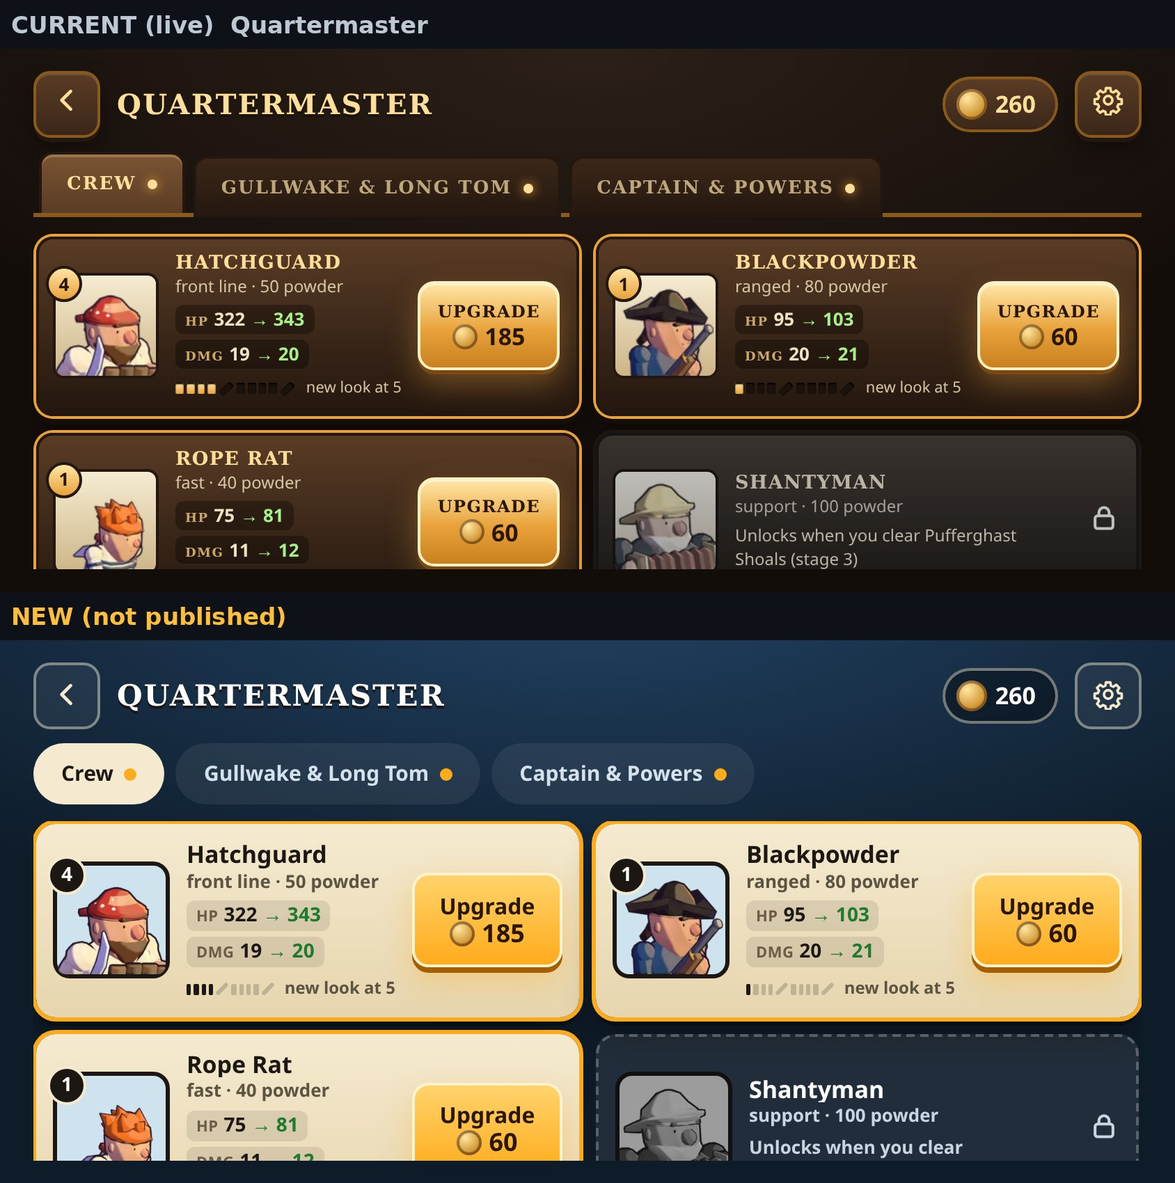
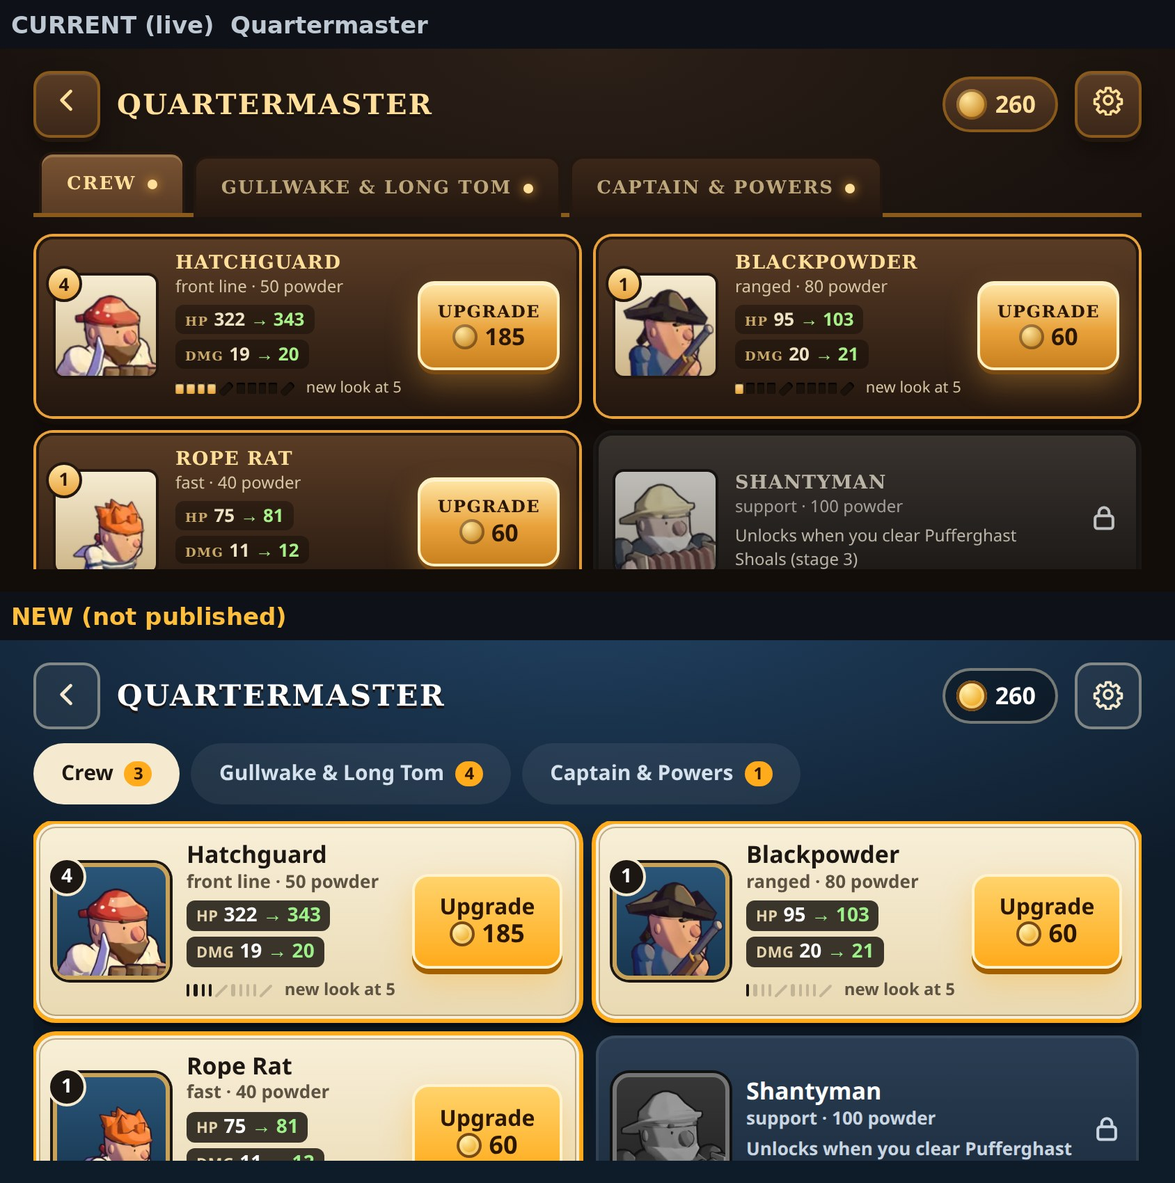
Review 5 fixes: scene lifted clear of cards, fights off the Grotto mouth, card tray, heavier outlines, expressive eyes, twist and squash

diff --git a/src/render/renderer.js b/src/render/renderer.js
@@ -30,8 +30,9 @@ export function createRenderer(canvas, hooks) {
 
   /** Screen (css px) -> world x. */
   R.toWorldX = (cssX) => (cssX * R.dpr) / R.scale + R.camX;
-  R.toWorldY = (cssY) => (cssY * R.dpr) / R.scale;
-  R.toCss = (wx, wy) => [((wx - R.camX) * R.scale) / R.dpr, (wy * R.scale) / R.dpr];
+  R.yOff = -46;       // the whole scene sits higher so feet stay clear of the card tray
+  R.toWorldY = (cssY) => (cssY * R.dpr) / R.scale - R.yOff;
+  R.toCss = (wx, wy) => [((wx - R.camX) * R.scale) / R.dpr, ((wy + R.yOff) * R.scale) / R.dpr];
   R.clampCam = (B) => { const max = Math.max(0, B.F.width - R.W); R.camX = Math.max(0, Math.min(max, R.camX)); };
 
   // ---------------------------------------------------------------- particles & numbers
@@ -206,9 +207,9 @@ export function createRenderer(canvas, hooks) {
     const c = scaledLayer(L), f = L.parallax || 0;
     const sx = Math.max(0, Math.min(c.width - 1, Math.round(camX * f * R.scale)));
     const sw = Math.min(c.width - sx, Math.ceil(R.W * R.scale));
-    g.setTransform(1, 0, 0, 1, Math.round(R.shakeX * R.scale), Math.round(R.shakeY * R.scale));
+    g.setTransform(1, 0, 0, 1, Math.round(R.shakeX * R.scale), Math.round((R.shakeY + R.yOff) * R.scale));
     g.drawImage(c, sx, 0, sw, c.height, 0, 0, sw, c.height);
-    g.setTransform(R.scale, 0, 0, R.scale, R.shakeX * R.scale, R.shakeY * R.scale);
+    g.setTransform(R.scale, 0, 0, R.scale, R.shakeX * R.scale, (R.shakeY + R.yOff) * R.scale);
   }
 
   function spriteDraw(id, anim, t, x, y, opts = {}) {
@@ -302,8 +303,9 @@ export function createRenderer(canvas, hooks) {
     // health bar when hurt (not for boss: boss has its own bar)
     if (e.alive && e.hp < e.maxHp && e.kind !== "boss") {
       const w = Math.max(22, e.s.size * 1.6), hy = y - Math.min(170, e.s.size * 4.6) - 14;
-      g.fillStyle = "rgba(0,0,0,.55)"; g.fillRect(sx - w / 2 - 1, hy - 1, w + 2, 5);
-      g.fillStyle = e.side === 1 ? "#7fd36b" : "#ff7a3a"; g.fillRect(sx - w / 2, hy, w * Math.max(0, e.hp / e.maxHp), 3);
+      const bw = Math.max(40, w * 1.5);
+      g.fillStyle = "#10141a"; g.fillRect(sx - bw / 2 - 2, hy - 4, bw + 4, 10);
+      g.fillStyle = e.side === 1 ? "#6fd35a" : "#b48cff"; g.fillRect(sx - bw / 2, hy - 2, bw * Math.max(0, e.hp / e.maxHp), 6);
     }
     if (e.vuln > 0 && e.alive) { g.fillStyle = "#ffe9a0"; for (let i = 0; i < 4; i++) { const a = R.t * 4 + i * 1.57; g.fillRect(sx + Math.cos(a) * 26 - 3, y - 250 + Math.sin(a) * 5, 6, 6); } }
     if (e.stun > 0 && e.alive) { g.fillStyle = "#ffe9a0"; for (let i = 0; i < 3; i++) { const a = R.t * 5 + i * 2.1; g.fillRect(sx + Math.cos(a) * 12 - 2, y - Math.min(170, e.s.size * 4.6) - 4 + Math.sin(a) * 3, 4, 4); } }
@@ -434,7 +436,7 @@ export function createRenderer(canvas, hooks) {
     const q = c.getContext("2d"); let seed = 7; const rnd = () => (seed = (seed * 16807) % 2147483647) / 2147483647;
     for (let x = 30; x < w; x += 150 + rnd() * 260) {
       const kind = rnd();
-      if (kind < 0.62) {       // marram grass
+      if (kind < 2) {       // marram grass
         for (let i = 0; i < 13; i++) { const bx = x + rnd() * 70, h = 26 + rnd() * 46, lean = (rnd() - 0.35) * 34;
           q.strokeStyle = i % 3 ? "#1b1426" : "#2c1f36"; q.lineWidth = 2.5 + rnd() * 2; q.lineCap = "round";
           q.beginPath(); q.moveTo(bx, 130); q.quadraticCurveTo(bx + lean * 0.3, 130 - h * 0.6, bx + lean, 130 - h); q.stroke(); }
@@ -448,7 +450,7 @@ export function createRenderer(canvas, hooks) {
   function drawForeground(B) {
     if (!FG || FG._w !== B.F.width) { FG = buildForeground(B); FG._w = B.F.width; }
     const sx = Math.min(FG.width - R.W - 1, R.camX * 1.35 + 60);
-    g.globalAlpha = 0.92; g.drawImage(FG, sx, 0, R.W + 1, 130, 0, B.F.groundY - 44, R.W + 1, 130); g.globalAlpha = 1;
+    g.globalAlpha = 0.92; g.drawImage(FG, sx, 0, R.W + 1, 130, 0, B.F.groundY + 2, R.W + 1, 130); g.globalAlpha = 1;
   }
 
   // ---------------------------------------------------------------- frame
@@ -465,16 +467,17 @@ export function createRenderer(canvas, hooks) {
     R.shake = Math.max(0, R.shake - dtReal * 1.6);
     const tr = R.shake * R.shake * 14;
     R.shakeX = (Math.random() - 0.5) * tr - R.kick * R.kick * 7; R.shakeY = (Math.random() - 0.5) * tr;
-    g.setTransform(R.scale, 0, 0, R.scale, R.shakeX * R.scale, R.shakeY * R.scale);
+    g.setTransform(R.scale, 0, 0, R.scale, R.shakeX * R.scale, (R.shakeY + R.yOff) * R.scale);
     const L = BG[B.stage.bg] || BG[R.region] || {};
     if (L.sky) drawLayer(L.sky, 0); else { const gr = g.createLinearGradient(0, 0, 0, H); gr.addColorStop(0, "#2a1418"); gr.addColorStop(1, "#c9602a"); g.fillStyle = gr; g.fillRect(-20, -20, R.W + 40, H + 40); }
     drawLayer(L.far || (BG.r1 && BG.r1.far), R.camX);
     drawWater(B, dtReal);
     haze(0, 250, 150, HZ.far, 0.0, 0.55);            // air between the far shore and the pier
     drawLayer(L.mid || (BG.r1 && BG.r1.mid), R.camX);
-    haze(0, 300, 110, HZ.mid, 0.0, 0.5);             // mist at the foot of the mid-ground: fighters stand clear of it
+    haze(0, 290, 84, HZ.mid, 0.0, 0.42);             // mist at the foot of the mid-ground: fighters stand clear of it
     if (L.near || (BG.r1 && BG.r1.near)) drawLayer(L.near || BG.r1.near, R.camX);
     else { g.fillStyle = "#2b2023"; g.fillRect(-20, B.F.groundY - 6, R.W + 40, H); }
+    g.fillStyle = NIGHT() ? "#0c1614" : "#3a2530"; g.fillRect(-30, H - 2, R.W + 60, 60);
     drawTide(B);
     R.recoil = Math.max(0, R.recoil - dtReal * 3.2); R.muzzle = Math.max(0, R.muzzle - dtReal * 9); R.kick = Math.max(0, R.kick - dtReal * 7);
     for (const d of R.decals) {       // craters and ink on the sand
@@ -523,7 +526,7 @@ export function createRenderer(canvas, hooks) {
         if (p.k === 0 && p.y > B.F.groundY + 8) { p.y = B.F.groundY + 8; p.vx *= 0.5; p.vy = 0; }
         const sx = p.x - R.camX; if (sx < -20 || sx > R.W + 20) continue;
         const a = Math.max(0, p.life / p.max);
-        if (p.k === 1) { g.globalAlpha = a; g.fillStyle = p.c; g.fillRect(sx - p.size / 2, p.y - p.size / 2, p.size, p.size); }
+        if (p.k === 1) { g.globalAlpha = a; g.fillStyle = p.c; g.beginPath(); g.arc(sx, p.y, p.size * 0.6, 0, 7); g.fill(); }
         else if (p.k === 2) { g.globalAlpha = a * 0.5; g.fillStyle = p.c; g.beginPath(); g.arc(sx, p.y, p.size * (1.6 - a * 0.6), 0, 7); g.fill(); }
         else if (p.k === 3) { g.globalAlpha = Math.min(0.5, a) * 0.6; g.fillStyle = p.c; g.fillRect(sx - 1, p.y - 1, 2, 2); }
         else { g.globalAlpha = Math.min(1, a * 1.5); g.fillStyle = p.c; g.fillRect(sx - p.size / 2, p.y - p.size / 2, p.size, p.size); }
@@ -538,7 +541,7 @@ export function createRenderer(canvas, hooks) {
     for (const n of R.nums) {
       if (n.life <= 0) continue; n.life -= dt; n.y -= 34 * dt;
       const a = Math.min(1, n.life / 0.35), sx = n.x - R.camX, pop = n.life > 0.75 ? 1 + (n.life - 0.75) * 2 : 1;
-      g.globalAlpha = a; g.font = `900 ${Math.round((n.head ? 30 : n.big ? 24 : 17) * pop)}px system-ui, sans-serif`;
+      g.globalAlpha = a; g.font = n.head ? `700 ${Math.round(30 * pop)}px Copperplate, "Copperplate Gothic Bold", Rockwell, "DejaVu Serif", Georgia, serif` : `900 ${Math.round((n.big ? 24 : 17) * pop)}px system-ui, sans-serif`;
       g.strokeText(n.t, sx, n.y); g.fillStyle = n.c; g.fillText(n.t, sx, n.y);
     }
     g.globalAlpha = 1;

diff --git a/src/ui/style.css b/src/ui/style.css
@@ -631,3 +631,30 @@ input[type=range]::-webkit-slider-thumb { background: #fff; border: 3px solid va
 .ucard { width: 82px; }
 .ucard .nm { font-size: 9.5px; white-space: nowrap; overflow: hidden; text-overflow: clip; }
 @media (max-width: 760px) { .ucard { width: 68px; } .ucard .nm { font-size: 8.5px; } }
+
+/* ---- review 5: the rail is a gunwale with a card tray, not a flat strip; menu gets ledger detail */
+.hud-bottom::before { height: calc(var(--sab) + 54px); background:
+  radial-gradient(circle at 12px 12px, #c9a25a 0 3px, #5b4322 3.5px 4.5px, transparent 5px) 0 4px / 64px 24px repeat-x,
+  repeating-linear-gradient(90deg, rgba(0,0,0,0) 0 126px, rgba(0,0,0,.35) 126px 128px),
+  linear-gradient(180deg, #2f4a66, #14263a 60%, #0c1826); border-top: 4px solid #c9a25a; box-shadow: 0 -2px 0 #0a121b, 0 -12px 24px rgba(0,0,0,.4), inset 0 3px 0 rgba(255,255,255,.12); }
+.cards { padding: 6px 8px 0; margin-bottom: 0; border-radius: 16px 16px 0 0; background: linear-gradient(180deg, rgba(8,14,22,.78), rgba(8,14,22,.92)); box-shadow: inset 0 2px 0 rgba(255,255,255,.1), 0 -4px 14px rgba(0,0,0,.35); border: 2px solid #c9a25a; border-bottom: 0; }
+.ucard { height: 98px; margin-bottom: 6px; }
+.ucard.ready { transform: translateY(-5px); }
+.ucard .cost { font-size: 18px; padding: 2px 0 3px; }
+.ucard .afm { bottom: 26px; } .ucard .cd { bottom: 26px; }
+.weapon svg { width: 64px; height: 64px; }
+.hud-bottom .left, .hud-bottom .side { margin-bottom: 6px; }
+/* menu */
+.card { background: linear-gradient(180deg, #f8efd8, #e9d9b2); box-shadow: inset 0 0 0 2px #f8efd8, inset 0 0 0 3px rgba(120,90,40,.45), 0 6px 0 rgba(0,0,0,.35), 0 14px 24px rgba(0,0,0,.3); }
+.card.can { box-shadow: inset 0 0 0 2px #f8efd8, inset 0 0 0 3px rgba(120,90,40,.45), 0 0 0 3px var(--go), 0 6px 0 rgba(0,0,0,.35), 0 14px 24px rgba(0,0,0,.3); }
+.card .pic { background: linear-gradient(180deg, #2a5578, #173650); border: 3px solid #c9a25a; box-shadow: 0 0 0 2px var(--dark); }
+.stat { background: rgba(28,23,18,.86); color: #fff; }
+.stat small { color: #e6d5ae; }
+.stat b { color: #9df08a; }
+.pips { gap: 3px; margin-top: 8px; }
+.pips i { width: 15px; height: 9px; border-radius: 2px; }
+.pips i.mile { width: 12px; height: 12px; }
+.card.locked { border: 0; background: linear-gradient(180deg, #2a3d52, #1a2a3c); box-shadow: inset 0 0 0 2px rgba(255,255,255,.08); }
+.tab .dot { width: auto; height: auto; min-width: 20px; padding: 2px 6px; border-radius: 10px; background: var(--go); color: var(--go-ink); font: 900 12px/1.2 system-ui, sans-serif; margin-left: 8px; }
+.coin { background: radial-gradient(circle at 35% 30%, #fff0b0, #f0b030 55%, #a8641a); box-shadow: inset 0 0 0 2px #7a4a12, inset 0 0 0 4px rgba(255,240,180,.5); }
+@media (max-width: 760px) { .ucard { height: 86px; } }

diff --git a/src/main.js b/src/main.js
@@ -214,7 +214,7 @@ async function armoury(backFn) {
   const tabs = h("div", { class: "tabs", role: "tablist" });
   const list = h("div", { class: "list" });
   const setTab = (t) => { armouryTab = t; render(); };
-  const mkTab = (id, label, can) => h("button", { class: "tab" + (armouryTab === id ? " on" : ""), role: "tab", "aria-selected": armouryTab === id, onclick: tap(() => setTab(id)) }, label, can ? h("span", { class: "dot", "aria-label": "upgrade available" }) : null);
+  const mkTab = (id, label, can) => h("button", { class: "tab" + (armouryTab === id ? " on" : ""), role: "tab", "aria-selected": armouryTab === id, onclick: tap(() => setTab(id)) }, label, can ? h("span", { class: "dot", "aria-label": can + " upgrades you can afford" }, can + "") : null);
   /** One upgrade row. o: {pic, title, role, lvl, max, stats: [[label, now, next]], miles, note, cost, buy, locked, hint} */
   function upRow(o) {
     const maxed = o.lvl >= o.max, can = !o.locked && !maxed && D.marks >= o.cost, shortBy = o.cost - D.marks;
@@ -266,7 +266,7 @@ async function armoury(backFn) {
     }
     return out;
   }
-  const affordable = (tab) => rows(tab).some((o) => !o.locked && o.lvl < o.max && D.marks >= o.cost);
+  const affordable = (tab) => rows(tab).filter((o) => !o.locked && o.lvl < o.max && D.marks >= o.cost).length;
   function render() {
     tabs.replaceChildren(mkTab("units", "Crew", affordable("units")), mkTab("keep", `${W.keep} & ${W.weapon}`, affordable("keep")), mkTab("hero", "Captain & Powers", affordable("hero")));
     document.getElementById("markval") && (document.getElementById("markval").textContent = D.marks);

diff --git a/src/sim/battle.js b/src/sim/battle.js
@@ -22,8 +22,8 @@ export function createBattle(content, stage, progress, seed = 1) {
     t: 0, dt: DT_DEFAULT, tick: 0, rand: rng(seed), stage, content, F, g,
     energy: g.energy.start, energyMax: g.energy.max + g.energy.maxPerLevel * (lv("energyMax") - 1),
     regen: g.energy.regen + g.energy.regenPerLevel * (lv("energyRegen") - 1),
-    keep: { hp: keepMax, max: keepMax, x: F.playerCastleX, front: F.playerCastleX + 70, hitT: 0 },
-    gate: { hp: stage.enemyCastleHp, max: stage.enemyCastleHp, x: F.enemyCastleX, front: F.enemyCastleX - 80, hitT: 0,
+    keep: { hp: keepMax, max: keepMax, x: F.playerCastleX, front: F.playerCastleX + 110, hitT: 0 },
+    gate: { hp: stage.enemyCastleHp, max: stage.enemyCastleHp, x: F.enemyCastleX, front: F.enemyCastleX - 190, hitT: 0,     // monsters gather on open sand, not inside the Grotto mouth
             sealed: stage.winOn === "boss" },
     cards, unitDefs, enemyDefs,
     ents: [], nextId: 1, projs: [], patches: [], marks: [], scheduled: [],

diff --git a/art/blender/chars/v2_ashguard.py b/art/blender/chars/v2_ashguard.py
@@ -53,7 +53,8 @@ def hatchguard_fig(spec):
     bc = V2["cursed"] if t >= 3 else V2["steel"]
     fig.add(slab(blade, 0.035, at=g, bevel=0.01, name="blade"), "handR", bc, metal=True, glow=0.35 if t >= 3 else 0.0, line=0.016)
     fig.add(loft([(-0.14, 0.035, 0.035), (0.05, 0.04, 0.04)], seg=7, axis="x", at=g, name="grip"), "handR", V2["leather"], line=0.012)
-    fig.add(orb(0.085, (g.x + 0.07, g.y, g.z), (0.45, 1.0, 1.25), seg=8, name="guard"), "handR", V2["brass"], metal=True, line=0.012)
+    fig.add(orb(0.12, (g.x + 0.07, g.y, g.z), (0.5, 1.15, 1.5), seg=10, name="guard"), "handR", V2["brass"], metal=True, line=0.014)
+    fig.add(orb(0.05, (g.x - 0.15, g.y, g.z), seg=8, name="pommel"), "handR", V2["brass"], metal=True, line=0.01)
     # swipe arc shown on the strike frames
     toggle(fig, "swipe", "root", (0.2, -0.3, 1.0), 0)
     arc = []; inner = []
@@ -88,31 +89,32 @@ def hg_walk(t, i, n):
 
 def hg_attack(t, i, n):
     G = _hg_guard()
-    wind = dict(G, chest=-13, hips=-4, head=6, uaR=205, laR=-28, handR=-34, shield=-6, off=dict(shield=(-0.06, 0, 0.03)),
+    wind = dict(G, chest=(-13, 0, -24), hips=-4, head=6, uaR=205, laR=-28, handR=-34, shield=-6, off=dict(shield=(-0.06, 0, 0.03)),
                 thL=20, snL=-26, thR=-18, snR=-10, root=(-0.07, 0), squash=(1.03, 0.97), brow=-12, vis=dict(m_open=1, m_shut=0), tail=(-18, 0.2))
-    hit = dict(G, chest=24, hips=7, head=-12, uaR=78, laR=14, handR=-112, shield=-22, off=dict(shield=(-0.10, 0, -0.10)),
+    hit = dict(G, chest=(24, 0, 22), hips=7, head=-12, uaR=78, laR=14, handR=-112, shield=-22, off=dict(shield=(-0.10, 0, -0.10)),
                thL=34, snL=-30, thR=-30, snR=-4, root=(0.20, 0), squash=(0.97, 1.03), brow=-16,
                vis=dict(m_open=1, m_shut=0, swipe=1), tail=(40, 0.5))
-    hold = dict(hit, uaR=58, laR=10, handR=-124, chest=27, vis=dict(m_open=1, m_shut=0, swipe=0), root=(0.22, 0), tail=(10, 0.7))
+    hold = dict(hit, uaR=58, laR=10, handR=-124, chest=(27, 0, 14), vis=dict(m_open=1, m_shut=0, swipe=0), root=(0.22, 0), tail=(10, 0.7))
     return keys([(0.0, G), (0.30, wind), (0.42, wind), (0.56, hit), (0.72, hold), (1.0, dict(G, tail=(0, 1.0)))], t)
 
 
 def hg_hit(t, i, n):
     G = _hg_guard()
     back = dict(G, chest=-19, head=-16, hips=-5, root=(-0.10, 0), squash=(1.06, 0.93), uaR=-70, laR=70, shield=9, brow=14,
-                vis=dict(m_open=1, m_shut=0), tail=(-30, 0.2))
+                vis=dict(m_open=1, m_shut=0, eyes_shut=1), tail=(-30, 0.2))
     return keys([(0.0, back), (0.45, dict(G, chest=-6, root=(-0.05, 0))), (1.0, G)], t)
 
 
 def hg_die(t, i, n):
     G = _hg_guard()
-    reel = dict(G, chest=-22, head=-20, hips=-8, root=(-0.10, 0), uaR=-120, laR=30, uaL=-40, laL=20, brow=16, vis=dict(m_open=1, m_shut=0),
+    reel = dict(G, chest=-22, head=-20, hips=-8, root=(-0.10, 0), uaR=-120, laR=30, uaL=-40, laL=20, brow=16, vis=dict(m_open=1, m_shut=0, eyes_shut=1),
                 shield=10, tail=(-30, 0.2))
     fall = dict(reel, rootrot=-62, root=(-0.22, 0.10), free=1, thL=30, snL=-50, thR=10, snR=-30, uaR=-150, uaL=-100, shield=24, off=dict(shield=(-0.1, 0, 0.0)))
     down = dict(fall, rootrot=-90, root=(-0.34, 0.24), chest=-4, head=-8, thL=14, snL=-20, thR=2, snR=-6, uaR=-165, laR=10, uaL=-140, laL=10,
-                shield=30, off=dict(shield=(-0.16, 0, -0.05)), vis=dict(m_open=0, m_shut=1), brow=0, tail=(0, 0.5))
-    bounce = dict(down, root=(-0.34, 0.30), rootrot=-86)
-    return keys([(0.0, G), (0.2, reel), (0.5, fall), (0.68, down), (0.78, bounce), (0.9, down), (1.0, down)], t)
+                shield=30, off=dict(shield=(-0.16, 0, -0.05)), vis=dict(m_open=0, m_shut=1, eyes_shut=1), brow=0, squash=(1.12, 0.84), tail=(0, 0.5))
+    bounce = dict(down, root=(-0.34, 0.30), rootrot=-86, squash=(0.95, 1.06))
+    rest = dict(down, squash=(1.0, 1.0))
+    return keys([(0.0, G), (0.2, reel), (0.5, fall), (0.68, down), (0.78, bounce), (0.9, rest), (1.0, rest)], t)
 
 
 def _hg(t):

diff --git a/art/blender/kit2.py b/art/blender/kit2.py
@@ -361,6 +361,11 @@ def head_crew(fig, C, brow=(0.24, 0.13, 0.08), beard=None, nose=1.0, jaw=1.0):
         fig.add(orb(r * 0.27, (ex - r * 0.12, y * r * 0.40, cz + r * 0.14), (0.5, 0.9, 1.05), seg=10, name="eyewhite"), "head", V2["white"], glow=0.7, line=0.01)
         fig.add(orb(r * 0.135, (ex + r * 0.0, y * r * 0.40 - 0.01, cz + r * 0.11), (0.5, 1, 1.1), seg=8, name="pupil"), "head", (0.07, 0.05, 0.06), glow=0.9, line=0)
         fig.add(orb(r * 0.2, (cx - r * 0.05, y * r * 0.98, cz - r * 0.02), (0.7, 0.4, 1.0), seg=8, name="ear"), "head", C["skin"], line=0.012)
+    # shut eyes (hit, death): dark lids that cover the whites
+    toggle(fig, "eyes_shut", "head", (ex - r * 0.1, 0, cz + r * 0.14), 0)
+    for y in (-1, 1):
+        fig.add(orb(r * 0.29, (ex - r * 0.10, y * r * 0.40, cz + r * 0.14), (0.52, 0.95, 0.62), seg=10, name="lid"), "eyes_shut", C["skin"], line=0.012)
+        fig.add(block((r * 0.06, r * 0.44, r * 0.07), (ex + r * 0.04, y * r * 0.40, cz + r * 0.10), bevel=0.0, name="lash"), "eyes_shut", (0.12, 0.07, 0.07), glow=0.9, line=0)
     # brow: one dark bar across both eyes, pivots for expression
     fig.joint("brow", (ex - r * 0.05, 0, cz + r * 0.36), "head", 1)
     fig.add(block((r * 0.32, r * 1.3, r * 0.2), (ex - r * 0.08, 0, cz + r * 0.44), rot=(-12, "Y"), bevel=0.02, name="brow"), "brow", brow, line=0.008)

diff --git a/art/blender/chars/v2_husk.py b/art/blender/chars/v2_husk.py
@@ -86,9 +86,9 @@ def dr_walk(t, i, n):
 
 def dr_attack(t, i, n):
     B = _dr_base()
-    rear = dict(B, chest=-30, head=-20, hips=-6, jaw=-52, uaR=178, laR=24, handR=-20, uaL=150, laL=30, thL=20, snL=-30, thR=8, snR=-18,
+    rear = dict(B, chest=(-30, 0, -18), head=-20, hips=-6, jaw=-52, uaR=186, laR=58, handR=-30, uaL=120, laL=80, thL=20, snL=-30, thR=8, snR=-18,
                 root=(-0.08, 0), squash=(0.96, 1.05), tail=(-24, 0.2))
-    slam = dict(B, chest=10, head=0, hips=4, jaw=-40, uaR=62, laR=18, handR=-30, uaL=48, laL=22, thL=32, snL=-40, thR=-14, snR=-24,
+    slam = dict(B, chest=(10, 0, 20), head=0, hips=4, jaw=-40, uaR=58, laR=8, handR=-30, uaL=84, laL=40, thL=32, snL=-40, thR=-14, snR=-24,
                 root=(0.22, 0), squash=(1.05, 0.95), vis=dict(swipe=1), tail=(44, 0.5))
     hold = dict(slam, uaR=40, uaL=30, chest=15, vis=dict(swipe=0), tail=(8, 0.7))
     return keys([(0.0, B), (0.30, rear), (0.42, rear), (0.56, slam), (0.72, hold), (1.0, B)], t)

diff --git a/art/blender/cast.py b/art/blender/cast.py
@@ -63,11 +63,11 @@ JOBS = {
 # atlas groups: name -> (job, ids, ppu). Pages overflow to <group>2, <group>3... Upgrade looks live in their own groups
 # (unitsb = level 5, unitsc = level 10) so they load only when a unit has reached that level.
 ATLASES = {
-    "units": dict(job="v2", ids=UNITS, ppu=104, contour=2),
+    "units": dict(job="v2", ids=UNITS, ppu=104, contour=3),
     "unitsb": dict(job="v2", ids=[u + "_t2" for u in UNITS], ppu=80, contour=2),
     "unitsc": dict(job="v2", ids=[u + "_t3" for u in UNITS], ppu=80, contour=2),
     "hero": dict(job="v2field", ids=["marshal"], ppu=80, contour=2),
-    "enemies": dict(job="v2field", ids=ENEMIES, ppu=104, contour=2),
+    "enemies": dict(job="v2field", ids=ENEMIES, ppu=104, contour=3),
     "boss": dict(job="v2boss", ids=["cinder_matron"], ppu=64, contour=2),
     "ui": dict(job="ui", ids=PORTRAITS + ICONS, ppu=72, out_scale=1.0),
 }

diff --git a/docs/review/review-5.md b/docs/review/review-5.md
@@ -1,0 +1,16 @@
+# Review 5: fresh reviewer, new battle frame and menu against well-made phone strategy games (2026-11-17)
+
+The reviewer compared on craft only (their references: three well-known lane-defence and tower-defence phone games) and saw the frame before the fixes below.
+Verdict on the battle frame: **no**, not yet professional: "the painted sunset backdrop is at professional level; everything in front of it is not." Menu: "nearly, as a clean app; no, as a game." Characters: "halfway."
+
+| # | What gave it away | Status |
+|---|---|---|
+| 1 | Three rendering languages in one frame (flat painted backdrop, soft 3D figures, faceted Grotto); no shared light | **Open, the biggest item.** Figures and forts share one paint and one light now, but they are still rendered 3D against a flat painted backdrop. Closing this means either painting the figures flatter (cel shapes, designed shadow shapes) or rendering the backdrop with the same paint. Needs the owner's call in part 3 |
+| 2 | Monsters merge with the Grotto mouth; only monsters had an edge | Fixed: fights now happen on open sand in front of the Grotto; every figure has a heavier ink line (3 px); monsters keep the green halo |
+| 3 | No ground plane: figures float on haze, feet hidden by cards and the rope fence | Fixed: the scene sits higher so feet clear the cards; haze stops above the feet; fence removed from the lane; contact shadows kept |
+| 4 | Scale: a musketeer taller than the lighthouse; fort cropped to a sliver | Partly: the field is now 1.13 screens wide so the Gullwake stays in frame. Figure size is kept on purpose (the owner asked for larger figures); the far lighthouse is small because it is far |
+| 5 | HUD is flat web UI; cards dead centre over an empty bar | Partly: the rail is a studded gunwale with a raised card tray; cards stay centred (the owner asked for no dead space beside them) |
+| 6 | Blocky debris; headline is plain system text colliding with the Grotto | Fixed: round debris; headline in the display face. It can still overlap the Grotto's spikes |
+| 7 | Health bars are 2 px dashes; cannon icon small in its ring | Fixed: framed 6 px bars; larger cannon |
+| 8 | Menu reads as a dashboard; serif title clashes with sans; baby-blue portrait boxes; grey chips low contrast; tiny pips; flat coin; wireframe locked card; unexplained dots | Partly: ledger border on cards, navy portrait frames with brass edge, dark stat chips, larger pips, embossed coin, solid locked card, dots became counts ("3 upgrades you can afford"). Still a clean app more than a place; the serif-title/sans-label split is the owner's instruction |
+| 9 | Characters built from spheres and tubes: no neck, mitten hands, blob nose, eye never changes, weak hilt, no torso twist, rigid death; monster generic, stiff arms, abrupt puddle | Partly: eyes now shut on hit and death, torso twists through the swing, landing squash on the death, larger brass hilt and pommel; the Drowner's arms lead and follow instead of moving together. Still open: hands, necks, noses, designed shadow shapes, the Drowner's design |

diff --git a/docs/art-guide.md b/docs/art-guide.md
@@ -100,10 +100,10 @@ Nothing imitates a pirate film or game: no recognisable characters, costumes, fl
 ## Atlas sizes (written by tools/pack_sprites.py)
 | file | size | ppu | bytes | ids |
 |---|---|---|---|---|
-| units.webp | 2044x2020 | 104 | 552 KB | ashguard, torchbow |
-| units2.webp | 2048x1648 | 104 | 524 KB | cinder_runner, bellringer |
-| units3.webp | 2048x2032 | 104 | 365 KB | maulwright |
-| units4.webp | 2028x2024 | 104 | 481 KB | maulwright, lamplighter |
+| units.webp | 2048x2044 | 104 | 546 KB | ashguard, torchbow |
+| units2.webp | 2048x1648 | 104 | 510 KB | cinder_runner, bellringer |
+| units3.webp | 2020x2036 | 104 | 357 KB | maulwright |
+| units4.webp | 2040x2032 | 104 | 461 KB | maulwright, lamplighter |
 | unitsb.webp | 1716x2044 | 80 | 584 KB | ashguard_t2, torchbow_t2, cinder_runner_t2 |
 | unitsb2.webp | 1928x968 | 80 | 211 KB | bellringer_t2 |
 | unitsb3.webp | 1916x2012 | 80 | 370 KB | maulwright_t2 |
@@ -113,12 +113,12 @@ Nothing imitates a pirate film or game: no recognisable characters, costumes, fl
 | unitsc3.webp | 1656x1984 | 80 | 394 KB | maulwright_t3 |
 | unitsc4.webp | 880x2040 | 80 | 276 KB | lamplighter_t3 |
 | hero.webp | 1364x2012 | 80 | 394 KB | marshal |
-| enemies.webp | 1328x2048 | 104 | 677 KB | husk, gnawer |
-| enemies2.webp | 2000x2048 | 104 | 860 KB | spitter, bloater |
-| enemies3.webp | 2000x2048 | 104 | 585 KB | brute |
-| enemies4.webp | 1060x1992 | 104 | 264 KB | brute |
-| enemies5.webp | 1952x2016 | 104 | 648 KB | husk_warden |
-| enemies6.webp | 756x1716 | 104 | 160 KB | husk_warden |
+| enemies.webp | 1524x2048 | 104 | 669 KB | husk, gnawer |
+| enemies2.webp | 2044x2048 | 104 | 845 KB | spitter, bloater |
+| enemies3.webp | 1156x2040 | 104 | 361 KB | brute |
+| enemies4.webp | 1908x2048 | 104 | 474 KB | brute |
+| enemies5.webp | 1964x2028 | 104 | 629 KB | husk_warden |
+| enemies6.webp | 760x1724 | 104 | 155 KB | husk_warden |
 | boss.webp | 1236x1964 | 64 | 202 KB | cinder_matron |
 | boss2.webp | 1300x2024 | 64 | 203 KB | cinder_matron |
 | boss3.webp | 1888x1948 | 64 | 285 KB | cinder_matron |
